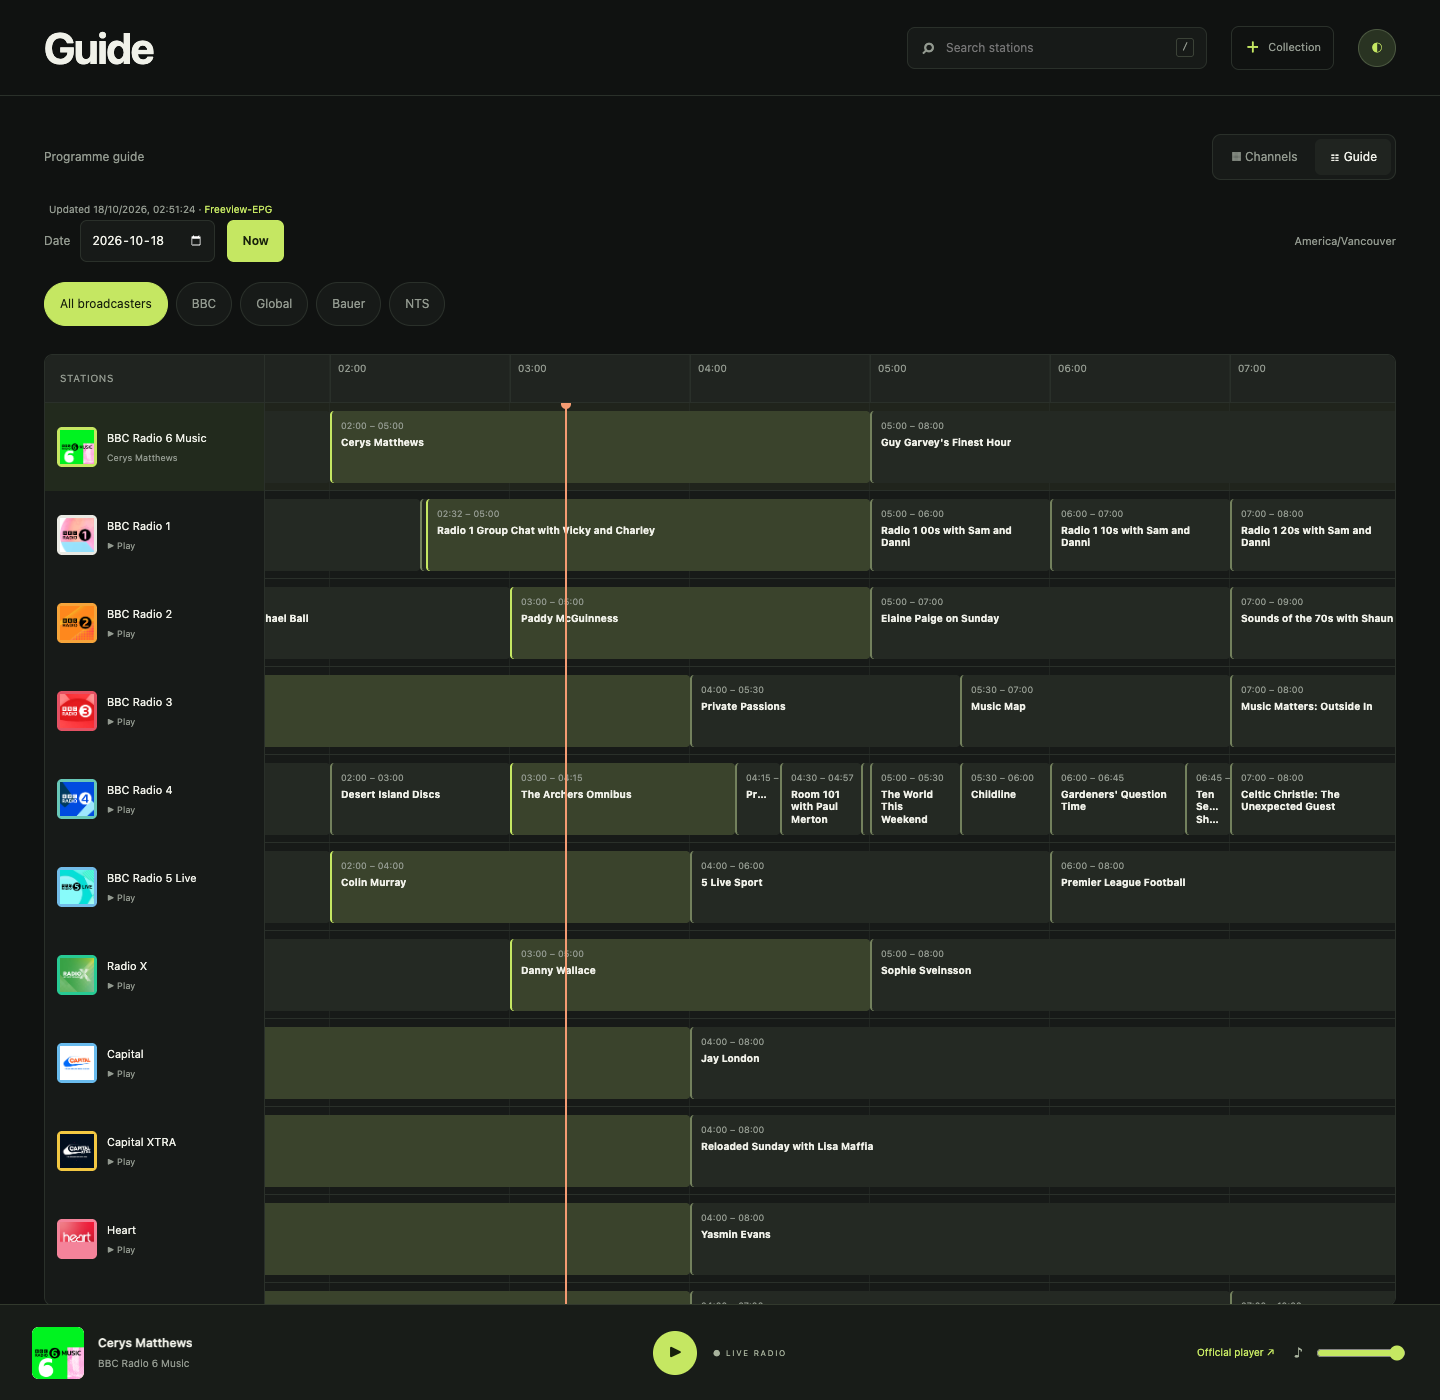
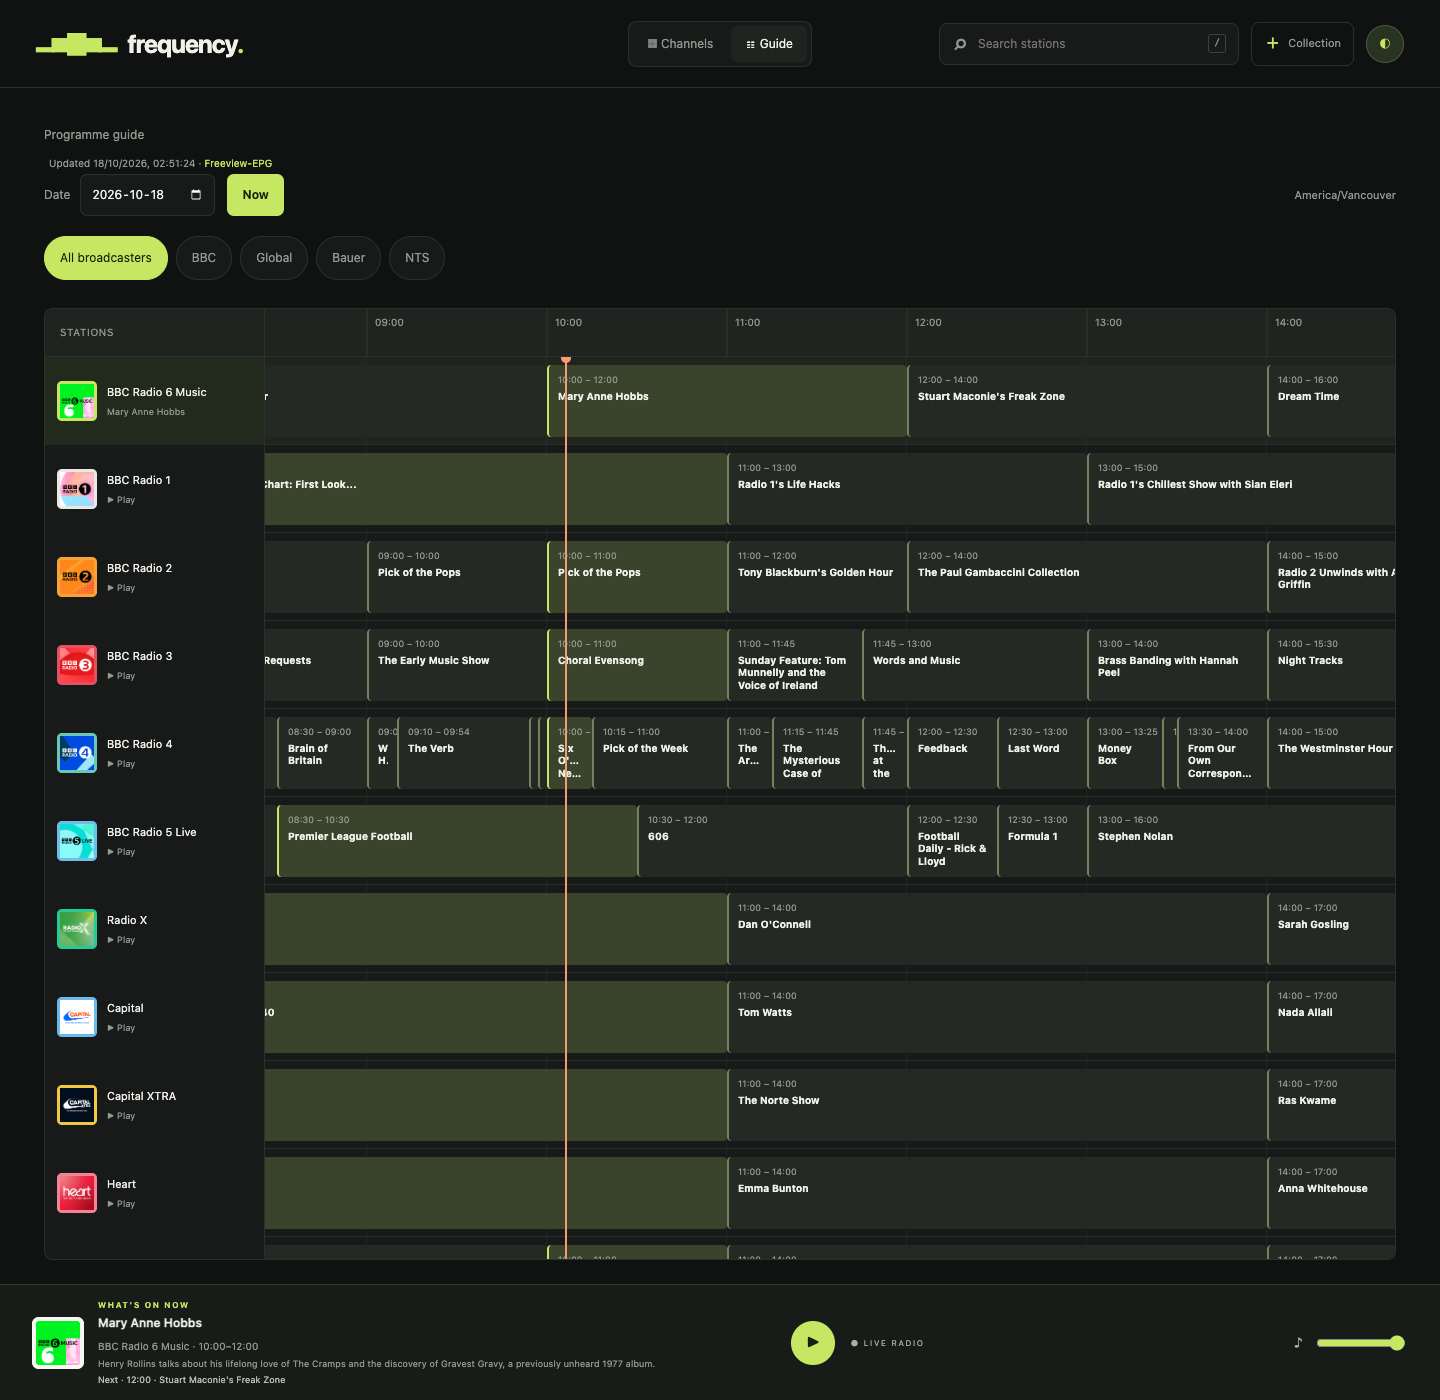
Center navigation and move live metadata into player

diff --git a/app/public/entry.tsx b/app/public/entry.tsx
@@ -175,13 +175,12 @@ function App(handle: Handle) {
     const freeview=schedules.find(s=>s.source==='freeview')
     const stale=Boolean(freeview&&clock-freeview.fetchedAt>24*3600000)
     return <div class="app">
-      <main><header class="topbar"><h1>{view}</h1><label class="search"><span>⌕</span><input type="search" placeholder="Search stations" aria-label="Search stations" value={query} mix={on('input',e=>{query=e.currentTarget.value;update()})}/><kbd>/</kbd></label><button class="collection-tool" aria-label="Manage collection" mix={on('click',()=>dialog.showModal())}><span>＋</span><span>Collection</span></button><button class="avatar" aria-label="Change colour theme" mix={on('click',()=>{theme=theme==='moss'?'lilac':'moss';document.documentElement.dataset.theme=theme;save('frequency.theme',theme);update()})}>◐</button></header>
-      <div class="page-content"><div class="view-toolbar"><span>{view==='Channels'?'Live radio':'Programme guide'}</span><div class="view-toggle" role="group" aria-label="Main view"><button aria-pressed={view==='Channels'} mix={on('click',()=>changeView('Channels'))}>▦ Channels</button><button aria-pressed={view==='Guide'} mix={on('click',()=>changeView('Guide'))}>☷ Guide</button></div></div>
+      <main><header class="topbar"><a class="wordmark" href={APP_BASE_PATH} aria-label="Frequency home"><span class="wave">▂▆█▆▂</span> frequency<span class="brand-dot">.</span></a><h1 class="visually-hidden">{view}</h1><div class="view-toggle" role="group" aria-label="Main view"><button aria-pressed={view==='Channels'} mix={on('click',()=>changeView('Channels'))}>▦ Channels</button><button aria-pressed={view==='Guide'} mix={on('click',()=>changeView('Guide'))}>☷ Guide</button></div><div class="topbar-tools"><label class="search"><span>⌕</span><input type="search" placeholder="Search stations" aria-label="Search stations" value={query} mix={on('input',e=>{query=e.currentTarget.value;update()})}/><kbd>/</kbd></label><button class="collection-tool" aria-label="Manage collection" mix={on('click',()=>dialog.showModal())}><span>＋</span><span>Collection</span></button><button class="avatar" aria-label="Change colour theme" mix={on('click',()=>{theme=theme==='moss'?'lilac':'moss';document.documentElement.dataset.theme=theme;save('frequency.theme',theme);update()})}>◐</button></div></header>
+      <div class="page-content"><div class="view-toolbar"><span>{view==='Channels'?'Live radio':'Programme guide'}</span></div>
       {notice&&!updateAvailable?<div class="notice" role="status">{notice}<button aria-label="Dismiss notification" mix={on('click',()=>{notice='';update()})}>×</button></div>:null}
       {selected&&playbackState.message?<div class="playback-feedback" role="status"><p>{playbackState.message}</p><div><button mix={on('click',()=>{if(selected)void play(selected)})}>{playbackState.status==='failed'?'Retry':'Play'}</button>{destination(selected,selected.url,'Official player')}</div></div>:null}
       <div class="schedule-status" role="status">{scheduleLoading?'Loading schedules…':!online?(programmes().length?'Offline · saved schedules':'Offline · no saved schedules'):scheduleFailed?(programmes().length?'Could not refresh · showing saved schedules':'Schedule unavailable'):stale?'Schedules may be out of date':''}{freeview&&(stale||scheduleFailed||view==='Guide')?<span> Updated {new Date(freeview.fetchedAt).toLocaleString()} · <a href={freeview.sourceUrl} target="_blank" rel="noopener">Freeview-EPG</a></span>:null}</div>
       {view==='Channels'?<div>
-        <section class="on-now" aria-label="What’s on now"><div class="show-art" style={{background:selected?.color??'var(--panel)'}}>{current?.artwork&&!failedLogos.has(current.artwork)?<img src={current.artwork} alt="" mix={on('error',()=>{failedLogos.add(current.artwork!);update()})}/>:selected?artwork(selected):'♫'}</div><div class="show-copy"><p class="eyebrow">WHAT’S ON NOW</p><p class="show-station">{selected?.title??'Select a station'}</p><h2>{current?.title??(selected?scheduleText(selected.id):'Live radio')}</h2>{current?<p class="show-time">{time(current.start)} – {time(current.end)}</p>:null}{current?.description?<p class="show-description">{current.description}</p>:null}<div class="show-actions"><button class="primary" disabled={!selected} mix={on('click',toggle)}>{playing||loading?'Ⅱ Pause':'▶ Play'}</button><button mix={on('click',()=>changeView('Guide'))}>View guide →</button></div>{next?<p class="up-next">Next · {time(next.start)} · {next.title}</p>:null}</div></section>
         <section class="favourites-section"><div class="section-heading"><h2>Favourites <span class="section-count">{favouritesList.length}</span></h2><button class="quiet-action" mix={on('click',()=>favouritesDialog.showModal())}>Edit favourites</button></div>{favouritesList.length?<div class="favourites-grid">{favouritesList.map(card)}</div>:<button class="favourites-empty" mix={on('click',()=>favouritesDialog.showModal())}>♡ <span>Add favourites <small>Choose stations for quick access.</small></span><span>＋</span></button>}</section>
         <section><div class="section-heading"><h2>Stations</h2><span class="section-count">{live.filter(i=>!favourites.includes(i.id)).length}</span></div>{filters()}<div class="card-grid">{live.filter(i=>!favourites.includes(i.id)).map(card)}</div>{!live.length?<p class="empty-message">No stations match your search.</p>:null}</section>
       </div>:<section class="guide"><div class="guide-controls"><label>Date <input aria-label="Guide date" type="date" value={guideDate} mix={on('change',e=>{if(e.currentTarget.value){guideDate=e.currentTarget.value;positionTimeline=true;update()}})}/></label><button class="primary" mix={on('click',jumpNow)}>Now</button><span>{timezone}</span></div>{filters()}
@@ -191,7 +190,7 @@ function App(handle: Handle) {
           {clock>=day.start&&clock<day.end?<div class="now-line" style={{left:`calc(var(--station-column) + ${(clock-day.start)*scale}px)`}} aria-hidden="true"/>:null}</div></div>{!rows.length?<p class="empty-message">No stations match your search.</p>:null}
       </section>}
       </div></main>
-      <section class="player" aria-label="Audio player"><div class="now-playing"><div class="mini-art" style={{background:selected?.color??'var(--accent)'}}>{selected?artwork(selected):'ƒ'}</div><div><strong>{current?.title??selected?.title??'Select a station'}</strong><p>{selected?(loading?'Connecting…':playing?selected.title:playbackState.status==='failed'?'Playback failed':playbackState.status==='blocked'?'Press Play to start':playbackState.status==='paused'?'Paused':selected.streamUrl?selected.title:'Official player opened'):'Live radio'}</p></div></div><div class="transport"><button class="play-button" disabled={!selected} aria-label={playing||loading?'Pause':playbackState.status==='failed'?'Retry':selected&&!selected.streamUrl?'Open official player':'Play'} mix={on('click',toggle)}>{playing||loading?'Ⅱ':'▶'}</button><span class="player-label">{selected?.kind==='live'?'● LIVE RADIO':selected?'COLLECTION':'LIVE RADIO'}</span></div><div class="player-extra">{selected?<a href={selected.url} target="_blank" rel="noopener" class="official" mix={on('click',e=>{e.preventDefault();if(selected)openOfficial(selected)})}>Official player ↗</a>:null}<label class="volume">♪<input aria-label="Volume" type="range" min="0" max="1" step="0.05" defaultValue="1" mix={on('input',e=>{playback.setVolume(Number(e.currentTarget.value))})}/></label></div></section>
+      <section class="player" aria-label="Audio player"><div class="now-playing"><div class="mini-art" style={{background:selected?.color??'var(--accent)'}}>{current?.artwork&&!failedLogos.has(current.artwork)?<img class="programme-art" src={current.artwork} alt="" mix={on('error',()=>{failedLogos.add(current.artwork!);update()})}/>:selected?artwork(selected):'ƒ'}</div><div class="now-copy"><span class="now-label">WHAT’S ON NOW</span><strong>{current?.title??(selected?scheduleText(selected.id):'Select a station')}</strong><p>{selected?.title??'Live radio'}{current?` · ${time(current.start)}–${time(current.end)}`:''}</p>{current?.description?<small class="player-description">{current.description}</small>:null}{next?<small class="player-next">Next · {time(next.start)} · {next.title}</small>:null}</div></div><div class="transport"><button class="play-button" disabled={!selected} aria-label={playing||loading?'Pause':playbackState.status==='failed'?'Retry':selected&&!selected.streamUrl?'Open official player':'Play'} mix={on('click',toggle)}>{playing||loading?'Ⅱ':'▶'}</button><span class="player-label">{playing?'● LIVE':selected?.kind==='live'?'● LIVE RADIO':selected?'COLLECTION':'LIVE RADIO'}</span></div><div class="player-extra"><label class="volume">♪<input aria-label="Volume" type="range" min="0" max="1" step="0.05" defaultValue="1" mix={on('input',e=>{playback.setVolume(Number(e.currentTarget.value))})}/></label></div></section>
       <dialog class="favourites-dialog" aria-labelledby="favourites-title" mix={[ref(node=>{favouritesDialog=node}),on('close',()=>{save('frequency.favouritesSetup',true)})]}><div class="dialog-heading"><h2 id="favourites-title">Choose favourites</h2><button aria-label="Close favourites" mix={on('click',()=>favouritesDialog.close())}>×</button></div><p>Choose stations for quick access. You can change these any time.</p><div class="favourite-options">{stations.map(item=><button key={item.id} aria-pressed={favourites.includes(item.id)} mix={on('click',()=>toggleFavourite(item.id))}><span class="station-thumb" style={{background:item.color}}>{artwork(item)}</span><span>{item.title}</span><span>{favourites.includes(item.id)?'♥':'♡'}</span></button>)}</div><button class="primary" mix={on('click',()=>favouritesDialog.close())}>Done</button></dialog>
       <dialog aria-labelledby="programme-title" mix={ref(node=>{programmeDialog=node})}><div class="dialog-heading"><h2 id="programme-title">{programme?.title??'Programme'}</h2><button aria-label="Close programme" mix={on('click',()=>programmeDialog.close())}>×</button></div>{programme?<div class="programme-details"><p>{allItems().find(i=>i.id===programme?.stationId)?.title} · {time(programme.start)} – {time(programme.end)} · {timezone}</p>{programme.artwork?<img src={programme.artwork} alt=""/>:null}<p>{programme.description}</p>{programme.presenters?.length?<p>{programme.presenters.join(', ')}</p>:null}<button class="primary" mix={on('click',playProgramme)}>Play live station</button></div>:null}</dialog>
       <dialog class="update-dialog" aria-labelledby="update-title" aria-describedby="update-description" mix={ref(node=>{updateDialog=node;if(!updateCloseListenerAttached){updateCloseListenerAttached=true;node.addEventListener('close',()=>{if(updateAvailable)closeUpdatePrompt()},{signal:handle.signal})}})}><p class="eyebrow">FREQUENCY UPDATE</p><h2 id="update-title">A new version is ready</h2><p id="update-description">Apply it now to reload Frequency with the latest files, or keep listening and update later.</p><div class="update-actions"><button mix={on('click',closeUpdatePrompt)}>Later</button><button class="primary" mix={on('click',applyUpdate)}>Update now</button></div></dialog>

diff --git a/public/styles.css b/public/styles.css
@@ -78,3 +78,32 @@ main{margin-left:0}
 @media(max-width:540px){:root{--station-column:126px}.collection-tool{width:40px;min-width:40px;padding:0;justify-content:center}.collection-tool>span:last-child{display:none}.topbar{gap:10px;padding-inline:12px}.sidebar nav{margin:0}.sidebar-bottom .nav-item{width:44px}.topbar h1{font-size:21px;white-space:nowrap}.view-toolbar{margin-bottom:16px}.on-now{grid-template-columns:72px minmax(0,1fr);gap:12px;padding:12px}.show-art{width:72px;border-radius:7px}.show-copy .eyebrow{font-size:8px}.show-copy h2{font-size:18px}.show-description{font-size:11px}.show-actions{gap:5px;margin-top:8px}.show-actions .primary{min-height:40px;padding:8px 12px}.show-actions>button:not(.primary){font-size:10px;padding:0 7px}.up-next{font-size:10px}.card-grid,.favourites-grid{grid-template-columns:repeat(2,minmax(0,1fr));gap:16px 12px}.art{padding:7px;border-radius:7px}.art .station-logo{padding:4px}.art-play{width:30px;height:30px;right:6px;bottom:6px}.station-mark{font-size:58px}.guide-controls{gap:8px;flex-wrap:wrap}.guide-controls label{gap:5px;font-size:10px}.guide-controls input{min-height:40px;max-width:142px}.guide-controls>span{width:100%;margin:0;font-size:10px}.station-heading{padding:0 8px;font-size:9px}.station-cell{gap:6px;padding:7px}.station-thumb{width:30px;height:30px;flex-basis:30px}.station-cell>span:last-child{font-size:9px}.station-cell small{font-size:8px}.programme{padding:6px}.programme small{font-size:8px}.programme strong{font-size:9px}.favourite-options{grid-template-columns:1fr}.schedule-status{line-height:1.5}.player{grid-template-columns:minmax(0,1fr) auto}}
 }
 @layer responsive{@media(max-width:540px){.art{aspect-ratio:1}.show-description{display:-webkit-box;-webkit-box-orient:vertical;-webkit-line-clamp:2;overflow:hidden}.station-cell>span:last-child small{max-width:78px;overflow:hidden;text-overflow:ellipsis;white-space:nowrap}}}
+
+@layer tokens{:root{--player:116px}}
+@layer layout{
+.topbar{height:88px;display:grid;grid-template-columns:minmax(160px,1fr) auto minmax(0,1fr);gap:20px;padding:0 36px}
+.topbar .wordmark{justify-self:start}
+.topbar-tools{min-width:0;display:flex;align-items:center;justify-self:end;gap:12px}
+.topbar-tools .search{width:clamp(140px,18vw,260px);margin:0}
+.topbar .view-toggle{justify-self:center}
+.view-toolbar{justify-content:flex-start;margin-bottom:8px}
+.visually-hidden{position:absolute;width:1px;height:1px;padding:0;margin:-1px;overflow:hidden;clip:rect(0,0,0,0);white-space:nowrap;border:0}
+.player{height:var(--player);grid-template-columns:minmax(0,1.6fr) auto minmax(160px,1fr);padding:12px 32px;gap:24px}
+.now-playing{gap:14px}
+.mini-art{width:72px;height:72px}
+.mini-art .programme-art,.mini-art .station-logo{width:100%;height:100%;object-fit:contain;padding:4px}
+.now-copy{min-width:0;display:flex;flex-direction:column;gap:3px}
+.now-label{color:var(--accent);font-size:8px;letter-spacing:1.5px;font-weight:650}
+.now-copy strong,.now-copy p,.player-description,.player-next{max-width:100%;overflow:hidden;text-overflow:ellipsis;white-space:nowrap}
+.now-copy strong{font-size:14px;font-weight:600}
+.now-copy p{margin:0;color:var(--muted);font-size:10px}
+.player-description,.player-next{display:block;color:var(--muted);font-size:9px}
+.player-next{color:#b8c0b2}
+.player-extra{justify-content:flex-end}
+}
+@layer responsive{
+@media(max-width:1150px){.topbar{padding-inline:24px;gap:14px;grid-template-columns:minmax(120px,1fr) auto minmax(0,1fr)}.topbar-tools{gap:8px}.topbar-tools .search{width:clamp(110px,15vw,180px)}.player{grid-template-columns:minmax(0,1.5fr) auto minmax(110px,.7fr);gap:14px;padding-inline:22px}}
+@media(max-width:850px){.card-grid{grid-template-columns:repeat(3,minmax(0,1fr))}.player{grid-template-columns:minmax(0,1fr) auto}.player-extra{display:none}}
+@media(max-width:540px){:root{--player:116px}.topbar{height:108px;grid-template-columns:minmax(0,1fr) auto;grid-template-rows:42px 42px;align-content:center;gap:6px 10px;padding:0 14px}.topbar .wordmark{font-size:21px;gap:7px}.topbar .wave{font-size:17px}.topbar-tools{grid-column:2;grid-row:1;gap:7px}.topbar-tools .search{width:clamp(76px,26vw,112px);height:38px;padding-inline:8px;gap:5px}.topbar-tools .search>span{font-size:21px}.topbar-tools .search input{font-size:10px}.topbar-tools .search kbd{display:none}.collection-tool{width:36px;min-width:36px;min-height:38px}.avatar{width:34px;min-height:34px}.topbar .view-toggle{grid-column:1 / -1;grid-row:2;justify-self:center;min-height:40px}.view-toggle button{min-height:32px;padding-inline:14px}.page-content{padding:20px 14px 0}.view-toolbar{margin-bottom:6px}.favourites-section{margin-top:18px}.card-grid,.favourites-grid{grid-template-columns:repeat(3,minmax(0,1fr));gap:14px 9px}.card-info{gap:2px;margin-top:6px}.card-info h3{font-size:10px}.card-info p{font-size:8px}.favourite{min-width:28px;min-height:34px;font-size:17px;margin-top:-3px}.art{padding:5px}.art .station-logo{padding:2px}.art-play{width:25px;height:25px;right:4px;bottom:4px}.station-mark{font-size:clamp(32px,10vw,50px)}.player{height:var(--player);grid-template-columns:minmax(0,1fr) auto;grid-template-rows:1fr;padding:10px 12px max(10px,env(safe-area-inset-bottom));gap:8px}.now-playing{gap:9px}.mini-art{width:48px;height:48px;flex-basis:48px;border-radius:6px}.now-copy{gap:2px}.now-label{font-size:7px;letter-spacing:1px}.now-copy strong{font-size:11px}.now-copy p{font-size:9px}.player-description{display:none}.player-next{font-size:8px}.transport{grid-column:2;grid-row:1;gap:0}.play-button{width:42px;height:42px}.player-label{display:none}.player-extra{display:none}.guide-controls{margin-bottom:14px}}
+@media(max-width:360px){.card-grid,.favourites-grid{grid-template-columns:repeat(2,minmax(0,1fr))}.topbar-tools .search{width:76px}.topbar-tools .search input{min-width:0}}
+}

diff --git a/README.md b/README.md
@@ -22,7 +22,7 @@ npm run build
 - Native audio playback with pause/resume, volume and Media Session controls where available.
 - 23 UK live stations: BBC Radio 1–6, nine Global stations, six Bauer stations and NTS 1–2. BBC, Global and NTS play directly; Bauer opens its official Rayo player.
 - Official players, schedules and show destinations open in a new tab after releasing current audio. Broadcaster filters, official station logos, brand colours and text fallback artwork.
-- Channels opens directly to current programme information, favourites and station controls. Guide displays programmes on a horizontally scrolling timeline and caches downloaded schedules in IndexedDB for later sessions and offline use.
+- The fixed player shows current programme information and playback controls. Channels opens directly to favourites and stations; Guide displays programmes on a horizontally scrolling timeline and caches downloaded schedules in IndexedDB for later sessions and offline use.
 - Show destinations for Craig Charles, Chris Moyles and X-Posure, plus broadcaster collections.
 - Add/remove device-local items, JSON import/export, RSS episode browsing when CORS is allowed.
 - Directional keyboard focus; Enter/Space activation; `/` focuses search. Text fields retain normal arrow-key editing. Native dialogs support Escape.
